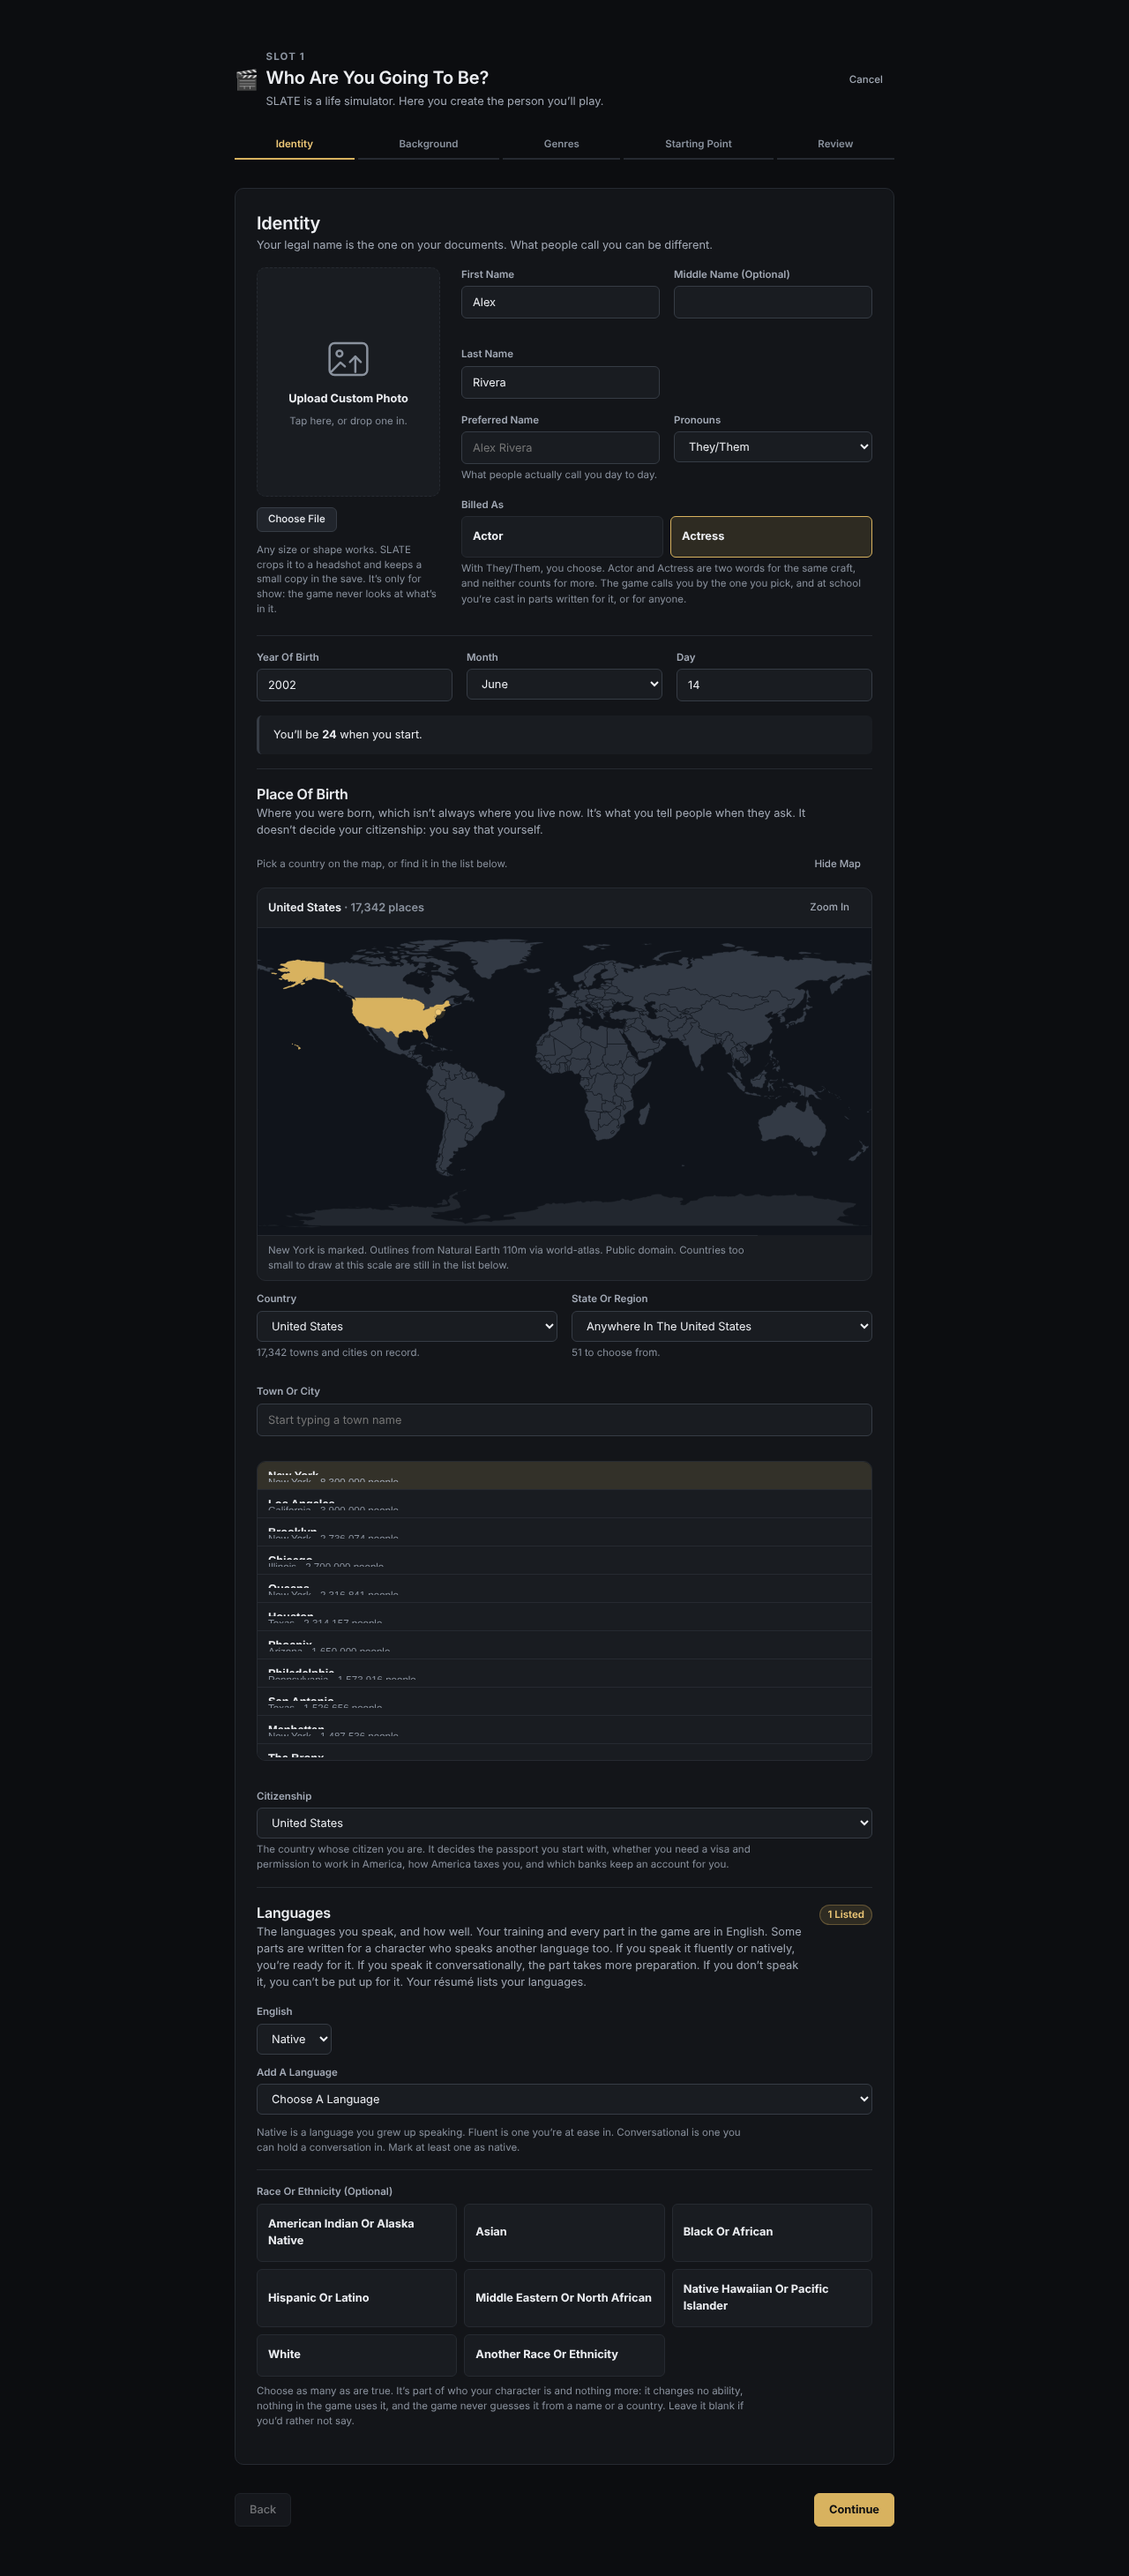
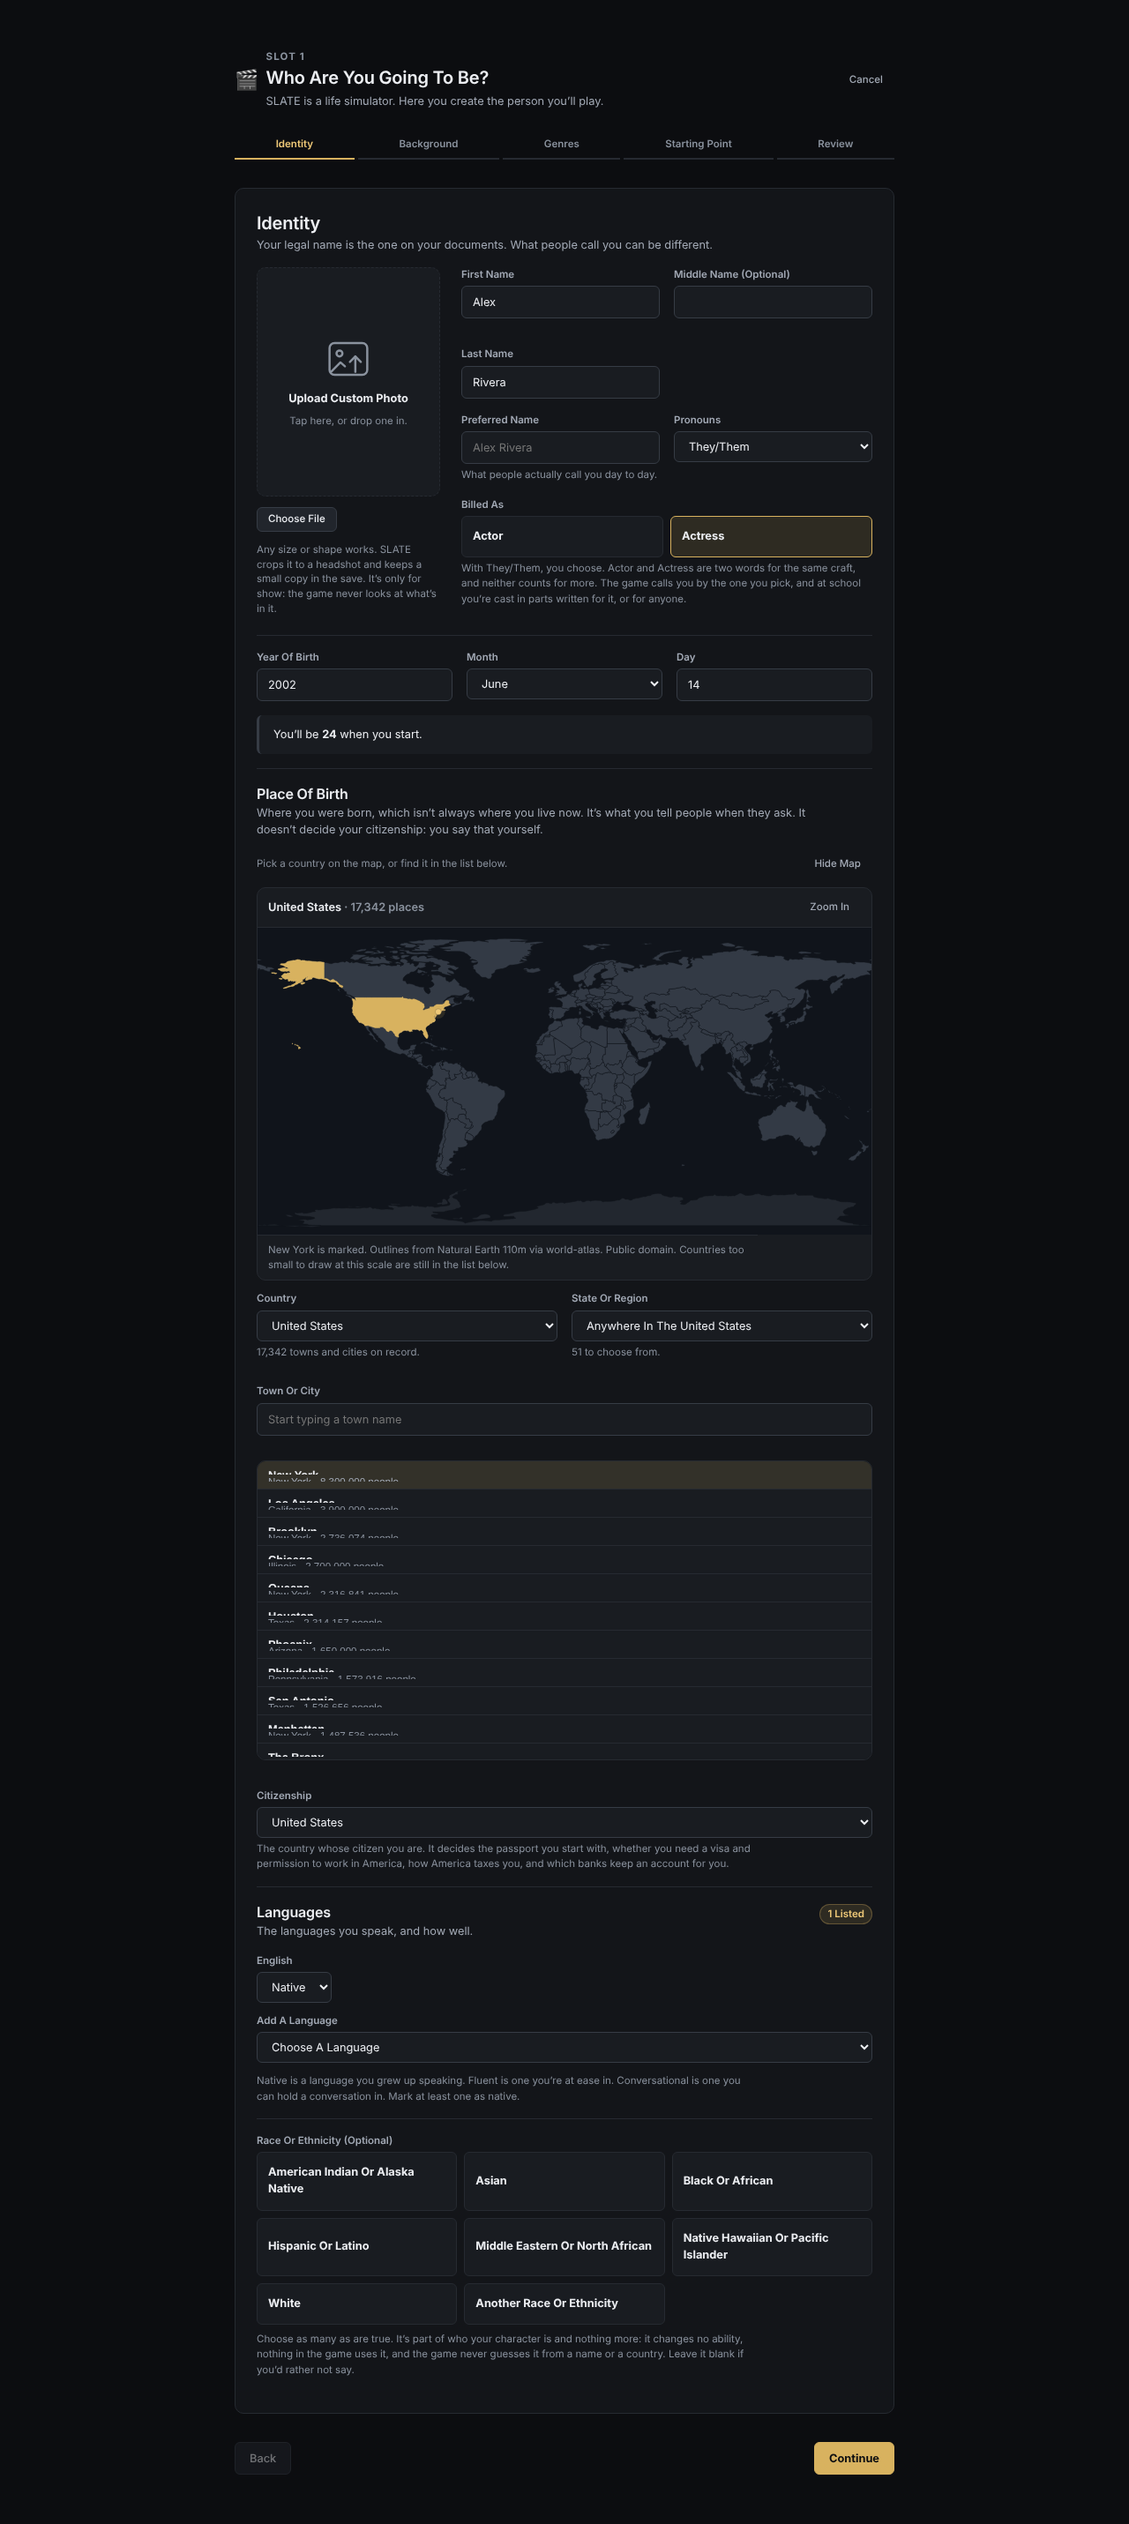
The Guide card is off Review and the career sentences off Languages, every page swept for what was removed, and the captures made again
Claude-Session: https://claude.ai/code/session_01HBdcuKzBBMbipfFQSByALG

diff --git a/docs/rebuild/KEEP.md b/docs/rebuild/KEEP.md
@@ -795,7 +795,8 @@ Capture: `captures/02-new-build/07-home-new.png` (Home with the manual's links g
 
 The first build is the nine screens in `captures/02-new-build/`, in the player's order, as `SCREENS.md` describes
 them: the startup screen (entry 1); the slots screen (entry 2); creation in five steps, Identity (entries 3, 13),
-Background (entries 9, 11), Genres (entry 12), Starting Point as Your Money (entry 14), Review (entry 15); and Home
+Background (entries 9, 11), Genres (entry 12), Starting Point as Your Money (entry 14), Review (entry 15, less The Guide card, gone with the tutorial on 2026-10-26: "anything that has been removed, it and
+its engine needs to be gone from the pages too"); and Home
 on the first morning (entries 16 to 19), with the clock, the date and town line, the weather, What Needs You, Up Next
 and the calendar, Recent Updates, and Sleep held.
 
@@ -812,3 +813,9 @@ earlier residence, and the free-text background.
 
 Open, in the owner's hands: the premise (what the life is a life of), home on the first morning, the start date,
 Sleep, the wording of every screen in the owner's voice, and the clean repository the folder goes to.
+
+**Sweep of 2026-10-26, at the owner's word that nothing removed may remain on a page:** The Guide card is off Review;
+the Languages card on Identity loses its sentences about training, parts and the résumé (career readers that are
+gone) and says only "The languages you speak, and how well."; the earlier Home capture with the tutorial gone but the
+School still on it is dropped from the folder. Every other page was read again against entries 8, 10, 11, 16, 17, 18
+and 19 and holds nothing of what they removed.

diff --git a/docs/rebuild/SCREENS.md b/docs/rebuild/SCREENS.md
@@ -89,7 +89,7 @@ Where the life begins on the first morning is open until the premise.
 ## Screen 6. Creation, Review
 
 Ready To Begin with the name and a line under it (age, billed as, home, the last open until the premise). Four
-sections in the steps' order: Identity, Background, Genres, Money, each saying back what its step took. The paused-clock line (the Guide choice is gone with the tutorial, entry 16). Back and Begin. The School line, the dispositions, the free-text sentence, Where You
+sections in the steps' order: Identity, Background, Genres, Money, each saying back what its step took. The paused-clock line. Back and Begin. (The Guide card is gone with the tutorial, entry 16.) The School line, the dispositions, the free-text sentence, Where You
 Live and Food Each Month are gone (entry 15).
 
 ## Screen 7. Home, the first morning
